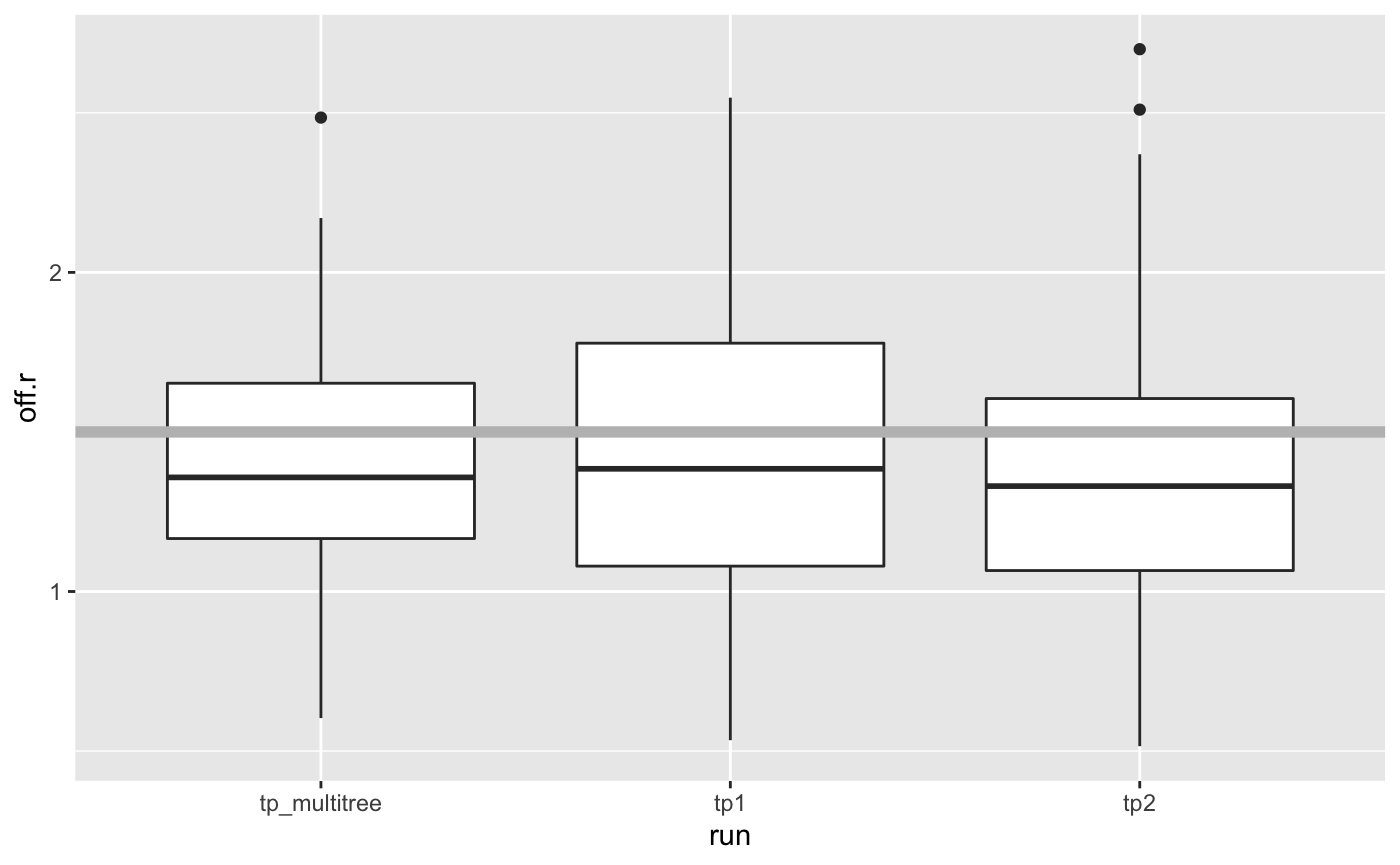
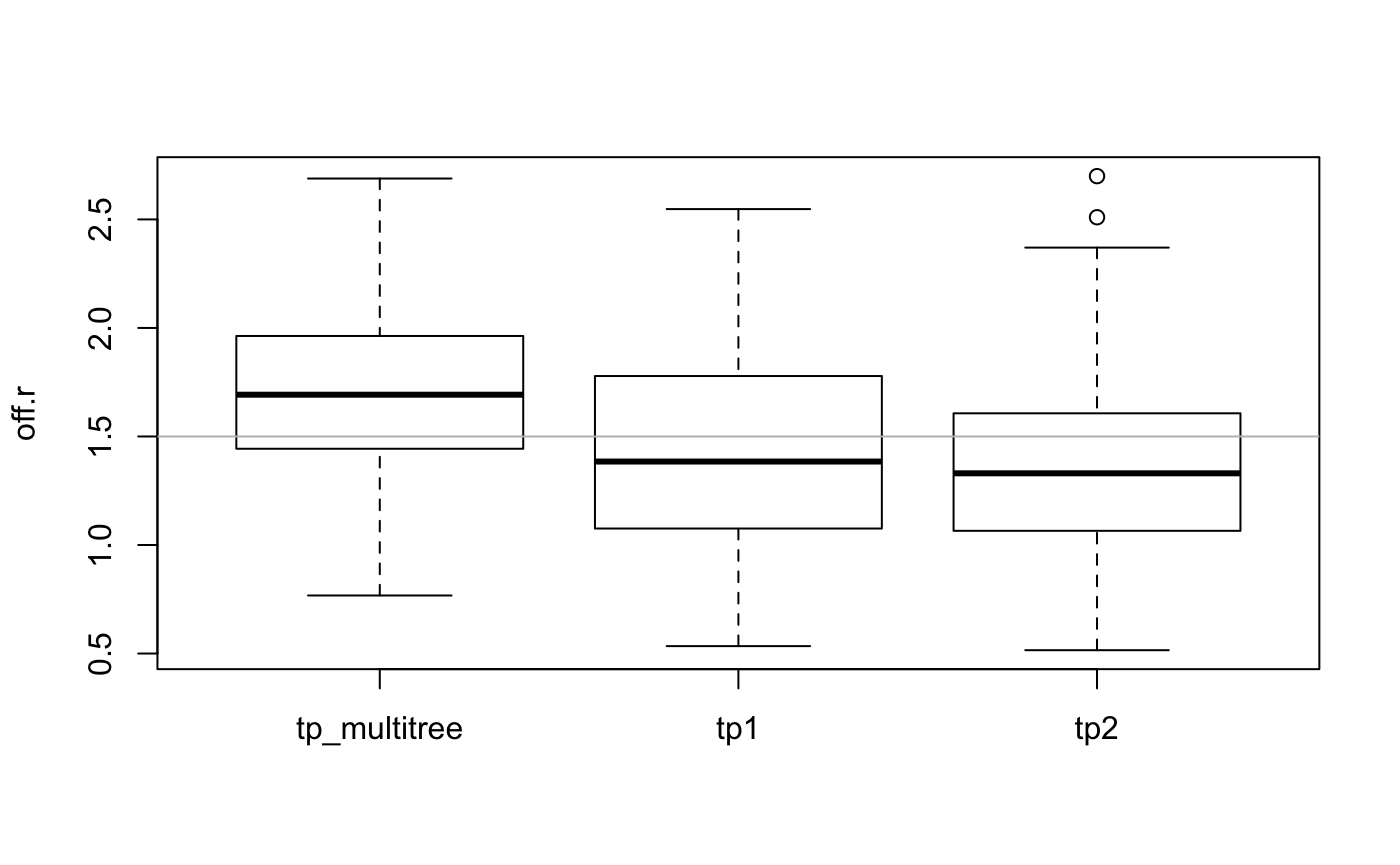
Work on multitree

diff --git a/docs/articles/multitree.html b/docs/articles/multitree.html
@@ -31,7 +31,7 @@
       </button>
       <span class="navbar-brand">
         <a class="navbar-link" href="../index.html">TransPhylo</a>
-        <span class="version label label-default" data-toggle="tooltip" data-placement="bottom" title="Released version">1.3.11</span>
+        <span class="version label label-default" data-toggle="tooltip" data-placement="bottom" title="Released version">1.3.12</span>
       </span>
     </div>
 
@@ -91,7 +91,7 @@
       <h1>Simultaneous Inference of Multiple Transmission Trees</h1>
                         <h4 class="author">Yuanwei Xu</h4>
             
-            <h4 class="date">2020-03-18</h4>
+            <h4 class="date">2020-03-19</h4>
       
       <small class="dont-index">Source: <a href="https://github.com/xavierdidelot/TransPhylo/blob/master/vignettes/multitree.Rmd"><code>vignettes/multitree.Rmd</code></a></small>
       <div class="hidden name"><code>multitree.Rmd</code></div>
@@ -141,11 +141,10 @@
 <a class="sourceLine" id="cb5-8" data-line-number="8">                         <span class="dt">mcmcIterations =</span> iters, <span class="dt">thinning =</span> thin, <span class="dt">dateT =</span> <span class="dv">2005</span>)</a>
 <a class="sourceLine" id="cb5-9" data-line-number="9">record_tpj &lt;-<span class="st"> </span><span class="kw"><a href="../reference/infer_multittree_share_param.html">infer_multittree_share_param</a></span>(<span class="kw"><a href="https://rdrr.io/r/base/list.html">list</a></span>(ptree1,ptree2), w.shape, w.scale, ws.shape, ws.scale, </a>
 <a class="sourceLine" id="cb5-10" data-line-number="10">                                    <span class="dt">mcmcIterations =</span> iters, <span class="dt">thinning =</span> thin, <span class="dt">dateT =</span> <span class="dv">2005</span>,</a>
-<a class="sourceLine" id="cb5-11" data-line-number="11">                                    <span class="dt">share =</span> <span class="kw"><a href="https://rdrr.io/r/base/c.html">c</a></span>(<span class="st">"neg"</span>, <span class="st">"off.r"</span>, <span class="st">"off.p"</span>, <span class="st">"pi"</span>),</a>
-<a class="sourceLine" id="cb5-12" data-line-number="12">                                    <span class="dt">prior_pi_a =</span> <span class="dv">1</span>, <span class="dt">prior_pi_b =</span> <span class="dv">1</span>)</a></code></pre></div>
+<a class="sourceLine" id="cb5-11" data-line-number="11">                                    <span class="dt">share =</span> <span class="kw"><a href="https://rdrr.io/r/base/c.html">c</a></span>(<span class="st">"neg"</span>, <span class="st">"off.r"</span>, <span class="st">"off.p"</span>, <span class="st">"pi"</span>))</a></code></pre></div>
 <p>Take the last 50% trees. Note that the multiple tree inference returns list of length two where each element contains the result corresponding to the input phylogenetic tree.</p>
-<div class="sourceCode" id="cb6"><pre class="sourceCode r"><code class="sourceCode r"><a class="sourceLine" id="cb6-1" data-line-number="1">begin &lt;-<span class="st"> </span>(iters <span class="op">*</span><span class="st"> </span><span class="fl">0.5</span>) <span class="op">%/%</span><span class="st"> </span>thin <span class="op">+</span><span class="st"> </span><span class="dv">1</span></a>
-<a class="sourceLine" id="cb6-2" data-line-number="2">end &lt;-<span class="st"> </span>iters <span class="op">%/%</span><span class="st"> </span>thin</a>
+<div class="sourceCode" id="cb6"><pre class="sourceCode r"><code class="sourceCode r"><a class="sourceLine" id="cb6-1" data-line-number="1">begin &lt;-<span class="st"> </span>(iters <span class="op">*</span><span class="st"> </span><span class="fl">0.5</span>) <span class="op">/</span><span class="st"> </span>thin <span class="op">+</span><span class="st"> </span><span class="dv">1</span></a>
+<a class="sourceLine" id="cb6-2" data-line-number="2">end &lt;-<span class="st"> </span>iters <span class="op">/</span><span class="st"> </span>thin</a>
 <a class="sourceLine" id="cb6-3" data-line-number="3">record_tp1 &lt;-<span class="st"> </span>record_tp1[begin<span class="op">:</span>end]</a>
 <a class="sourceLine" id="cb6-4" data-line-number="4">record_tp2 &lt;-<span class="st"> </span>record_tp2[begin<span class="op">:</span>end]</a>
 <a class="sourceLine" id="cb6-5" data-line-number="5">record_tpj[[<span class="dv">1</span>]] &lt;-<span class="st"> </span>record_tpj[[<span class="dv">1</span>]][begin<span class="op">:</span>end]</a>
@@ -170,18 +169,14 @@
 <a class="sourceLine" id="cb7-13" data-line-number="13">                   <span class="kw">get_param_estimates</span>(record_tp2, <span class="st">"neg"</span>),</a>
 <a class="sourceLine" id="cb7-14" data-line-number="14">                   <span class="kw">get_param_estimates</span>(record_tpj[[<span class="dv">1</span>]], <span class="st">"neg"</span>)))</a></code></pre></div>
 <p>In this example where we explictly set the parameters when simulating the outbreaks, we see that the posterior estimates from the multiple tree inference generally have lower variance than those resulting from single tree inference. The true parameter values are shown in gray reference line.</p>
-<div class="sourceCode" id="cb8"><pre class="sourceCode r"><code class="sourceCode r"><a class="sourceLine" id="cb8-1" data-line-number="1"><span class="kw"><a href="https://rdrr.io/r/base/library.html">library</a></span>(ggplot2)</a>
-<a class="sourceLine" id="cb8-2" data-line-number="2"><span class="kw"><a href="https://ggplot2.tidyverse.org/reference/ggplot.html">ggplot</a></span>(df, <span class="kw"><a href="https://ggplot2.tidyverse.org/reference/aes.html">aes</a></span>(run, pi)) <span class="op">+</span></a>
-<a class="sourceLine" id="cb8-3" data-line-number="3"><span class="st">  </span><span class="kw"><a href="https://ggplot2.tidyverse.org/reference/geom_boxplot.html">geom_boxplot</a></span>() <span class="op">+</span></a>
-<a class="sourceLine" id="cb8-4" data-line-number="4"><span class="st">  </span><span class="kw"><a href="https://ggplot2.tidyverse.org/reference/geom_abline.html">geom_hline</a></span>(<span class="dt">yintercept =</span> <span class="fl">0.8</span>, <span class="dt">size =</span> <span class="dv">2</span>, <span class="dt">color =</span> <span class="st">"gray"</span>)</a></code></pre></div>
+<div class="sourceCode" id="cb8"><pre class="sourceCode r"><code class="sourceCode r"><a class="sourceLine" id="cb8-1" data-line-number="1"><span class="kw"><a href="https://rdrr.io/r/graphics/boxplot.html">boxplot</a></span>(df<span class="op">$</span>pi<span class="op">~</span>df<span class="op">$</span>run,<span class="dt">ylab=</span><span class="st">'pi'</span>)</a>
+<a class="sourceLine" id="cb8-2" data-line-number="2"><span class="kw"><a href="https://rdrr.io/r/graphics/lines.html">lines</a></span>(<span class="kw"><a href="https://rdrr.io/r/base/c.html">c</a></span>(<span class="dv">0</span>,<span class="dv">4</span>),<span class="kw"><a href="https://rdrr.io/r/base/rep.html">rep</a></span>(<span class="fl">0.8</span>,<span class="dv">2</span>),<span class="dt">col=</span><span class="st">'grey'</span>)</a></code></pre></div>
 <p><img src="multitree_files/figure-html/unnamed-chunk-5-1.png" width="700"></p>
-<div class="sourceCode" id="cb9"><pre class="sourceCode r"><code class="sourceCode r"><a class="sourceLine" id="cb9-1" data-line-number="1"><span class="kw"><a href="https://ggplot2.tidyverse.org/reference/ggplot.html">ggplot</a></span>(df, <span class="kw"><a href="https://ggplot2.tidyverse.org/reference/aes.html">aes</a></span>(run, off.r)) <span class="op">+</span></a>
-<a class="sourceLine" id="cb9-2" data-line-number="2"><span class="st">  </span><span class="kw"><a href="https://ggplot2.tidyverse.org/reference/geom_boxplot.html">geom_boxplot</a></span>() <span class="op">+</span></a>
-<a class="sourceLine" id="cb9-3" data-line-number="3"><span class="st">  </span><span class="kw"><a href="https://ggplot2.tidyverse.org/reference/geom_abline.html">geom_hline</a></span>(<span class="dt">yintercept =</span> <span class="fl">1.5</span>, <span class="dt">size =</span> <span class="dv">2</span>, <span class="dt">color =</span> <span class="st">"gray"</span>)</a></code></pre></div>
+<div class="sourceCode" id="cb9"><pre class="sourceCode r"><code class="sourceCode r"><a class="sourceLine" id="cb9-1" data-line-number="1"><span class="kw"><a href="https://rdrr.io/r/graphics/boxplot.html">boxplot</a></span>(df<span class="op">$</span>off.r<span class="op">~</span>df<span class="op">$</span>run,<span class="dt">ylab=</span><span class="st">'off.r'</span>)</a>
+<a class="sourceLine" id="cb9-2" data-line-number="2"><span class="kw"><a href="https://rdrr.io/r/graphics/lines.html">lines</a></span>(<span class="kw"><a href="https://rdrr.io/r/base/c.html">c</a></span>(<span class="dv">0</span>,<span class="dv">4</span>),<span class="kw"><a href="https://rdrr.io/r/base/rep.html">rep</a></span>(<span class="fl">1.5</span>,<span class="dv">2</span>),<span class="dt">col=</span><span class="st">'grey'</span>)</a></code></pre></div>
 <p><img src="multitree_files/figure-html/unnamed-chunk-6-1.png" width="700"></p>
-<div class="sourceCode" id="cb10"><pre class="sourceCode r"><code class="sourceCode r"><a class="sourceLine" id="cb10-1" data-line-number="1"><span class="kw"><a href="https://ggplot2.tidyverse.org/reference/ggplot.html">ggplot</a></span>(df, <span class="kw"><a href="https://ggplot2.tidyverse.org/reference/aes.html">aes</a></span>(run, neg)) <span class="op">+</span></a>
-<a class="sourceLine" id="cb10-2" data-line-number="2"><span class="st">  </span><span class="kw"><a href="https://ggplot2.tidyverse.org/reference/geom_boxplot.html">geom_boxplot</a></span>() <span class="op">+</span></a>
-<a class="sourceLine" id="cb10-3" data-line-number="3"><span class="st">  </span><span class="kw"><a href="https://ggplot2.tidyverse.org/reference/geom_abline.html">geom_hline</a></span>(<span class="dt">yintercept =</span> <span class="dv">100</span><span class="op">/</span><span class="dv">365</span>, <span class="dt">size =</span> <span class="dv">2</span>, <span class="dt">color =</span> <span class="st">"gray"</span>)</a></code></pre></div>
+<div class="sourceCode" id="cb10"><pre class="sourceCode r"><code class="sourceCode r"><a class="sourceLine" id="cb10-1" data-line-number="1"><span class="kw"><a href="https://rdrr.io/r/graphics/boxplot.html">boxplot</a></span>(df<span class="op">$</span>neg<span class="op">~</span>df<span class="op">$</span>run,<span class="dt">ylab=</span><span class="st">'Ne*g'</span>)</a>
+<a class="sourceLine" id="cb10-2" data-line-number="2"><span class="kw"><a href="https://rdrr.io/r/graphics/lines.html">lines</a></span>(<span class="kw"><a href="https://rdrr.io/r/base/c.html">c</a></span>(<span class="dv">0</span>,<span class="dv">4</span>),<span class="kw"><a href="https://rdrr.io/r/base/rep.html">rep</a></span>(<span class="dv">100</span><span class="op">/</span><span class="dv">365</span>,<span class="dv">2</span>),<span class="dt">col=</span><span class="st">'grey'</span>)</a></code></pre></div>
 <p><img src="multitree_files/figure-html/unnamed-chunk-7-1.png" width="700"></p>
 </div>
   </div>

diff --git a/docs/reference/infer_multittree_share_param.html b/docs/reference/infer_multittree_share_param.html
@@ -75,7 +75,7 @@ the argument &quot;share&quot;." />
       </button>
       <span class="navbar-brand">
         <a class="navbar-link" href="../index.html">TransPhylo</a>
-        <span class="version label label-default" data-toggle="tooltip" data-placement="bottom" title="Released version">1.3.11</span>
+        <span class="version label label-default" data-toggle="tooltip" data-placement="bottom" title="Released version">1.3.12</span>
       </span>
     </div>
 
@@ -151,8 +151,8 @@ the argument "share".</p>
   <span class='kw'>startOff.p</span> <span class='kw'>=</span> <span class='fl'>0.5</span>, <span class='kw'>startPi</span> <span class='kw'>=</span> <span class='fl'>0.5</span>, <span class='kw'>prior_pi_a</span> <span class='kw'>=</span> <span class='fl'>5</span>, <span class='kw'>prior_pi_b</span> <span class='kw'>=</span> <span class='fl'>1</span>,
   <span class='kw'>updateNeg</span> <span class='kw'>=</span> <span class='fl'>TRUE</span>, <span class='kw'>updateOff.r</span> <span class='kw'>=</span> <span class='fl'>TRUE</span>, <span class='kw'>updateOff.p</span> <span class='kw'>=</span> <span class='fl'>FALSE</span>,
   <span class='kw'>updatePi</span> <span class='kw'>=</span> <span class='fl'>TRUE</span>, <span class='kw'>share</span> <span class='kw'>=</span> <span class='kw'>NULL</span>, <span class='kw'>startCTree_lst</span> <span class='kw'>=</span> <span class='fu'><a href='https://rdrr.io/r/base/rep.html'>rep</a></span>(<span class='fl'>NA</span>,
-  <span class='fu'><a href='https://rdrr.io/r/base/length.html'>length</a></span>(<span class='no'>ptree_lst</span>)), <span class='kw'>updateTTree</span> <span class='kw'>=</span> <span class='fl'>TRUE</span>, <span class='kw'>optiStart</span> <span class='kw'>=</span> <span class='fl'>TRUE</span>,
-  <span class='kw'>dateT</span> <span class='kw'>=</span> <span class='fl'>Inf</span>)</pre>
+  <span class='fu'><a href='https://rdrr.io/r/base/length.html'>length</a></span>(<span class='no'>ptree_lst</span>)), <span class='kw'>updateTTree</span> <span class='kw'>=</span> <span class='fl'>TRUE</span>, <span class='kw'>optiStart</span> <span class='kw'>=</span> <span class='fl'>2</span>, <span class='kw'>dateT</span> <span class='kw'>=</span> <span class='fl'>Inf</span>,
+  <span class='kw'>verbose</span> <span class='kw'>=</span> <span class='no'>F</span>)</pre>
 
     <h2 class="hasAnchor" id="arguments"><a class="anchor" href="#arguments"></a>Arguments</h2>
     <table class="ref-arguments">
@@ -245,6 +245,10 @@ share the offspring distribution. Allowed parameter names are "neg", "off.r", "o
     <tr>
       <th>dateT</th>
       <td><p>Date when process stops (this can be Inf for fully simulated outbreaks)</p></td>
+    </tr>
+    <tr>
+      <th>verbose</th>
+      <td><p>Whether or not to use verbose mode (default is false)</p></td>
     </tr>
     </table>
 

diff --git a/docs/articles/infer.html b/docs/articles/infer.html
@@ -31,7 +31,7 @@
       </button>
       <span class="navbar-brand">
         <a class="navbar-link" href="../index.html">TransPhylo</a>
-        <span class="version label label-default" data-toggle="tooltip" data-placement="bottom" title="Released version">1.3.11</span>
+        <span class="version label label-default" data-toggle="tooltip" data-placement="bottom" title="Released version">1.3.12</span>
       </span>
     </div>
 
@@ -91,7 +91,7 @@
       <h1>Inference of transmission tree from a dated phylogeny</h1>
                         <h4 class="author">Xavier Didelot</h4>
             
-            <h4 class="date">2020-03-18</h4>
+            <h4 class="date">2020-03-19</h4>
       
       <small class="dont-index">Source: <a href="https://github.com/xavierdidelot/TransPhylo/blob/master/vignettes/infer.Rmd"><code>vignettes/infer.Rmd</code></a></small>
       <div class="hidden name"><code>infer.Rmd</code></div>

diff --git a/docs/articles/TransPhylo.html b/docs/articles/TransPhylo.html
@@ -31,7 +31,7 @@
       </button>
       <span class="navbar-brand">
         <a class="navbar-link" href="../index.html">TransPhylo</a>
-        <span class="version label label-default" data-toggle="tooltip" data-placement="bottom" title="Released version">1.3.11</span>
+        <span class="version label label-default" data-toggle="tooltip" data-placement="bottom" title="Released version">1.3.12</span>
       </span>
     </div>
 
@@ -91,7 +91,7 @@
       <h1>Introducing the R package TransPhylo</h1>
                         <h4 class="author">Xavier Didelot</h4>
             
-            <h4 class="date">2020-03-18</h4>
+            <h4 class="date">2020-03-19</h4>
       
       <small class="dont-index">Source: <a href="https://github.com/xavierdidelot/TransPhylo/blob/master/vignettes/TransPhylo.Rmd"><code>vignettes/TransPhylo.Rmd</code></a></small>
       <div class="hidden name"><code>TransPhylo.Rmd</code></div>

diff --git a/docs/articles/simulate.html b/docs/articles/simulate.html
@@ -31,7 +31,7 @@
       </button>
       <span class="navbar-brand">
         <a class="navbar-link" href="../index.html">TransPhylo</a>
-        <span class="version label label-default" data-toggle="tooltip" data-placement="bottom" title="Released version">1.3.11</span>
+        <span class="version label label-default" data-toggle="tooltip" data-placement="bottom" title="Released version">1.3.12</span>
       </span>
     </div>
 
@@ -91,7 +91,7 @@
       <h1>Simulation of outbreak data</h1>
                         <h4 class="author">Xavier Didelot</h4>
             
-            <h4 class="date">2020-03-18</h4>
+            <h4 class="date">2020-03-19</h4>
       
       <small class="dont-index">Source: <a href="https://github.com/xavierdidelot/TransPhylo/blob/master/vignettes/Simulate.Rmd"><code>vignettes/Simulate.Rmd</code></a></small>
       <div class="hidden name"><code>Simulate.Rmd</code></div>

diff --git a/docs/reference/TransPhylo.html b/docs/reference/TransPhylo.html
@@ -74,7 +74,7 @@ simulateOutbreak
       </button>
       <span class="navbar-brand">
         <a class="navbar-link" href="../index.html">TransPhylo</a>
-        <span class="version label label-default" data-toggle="tooltip" data-placement="bottom" title="Released version">1.3.11</span>
+        <span class="version label label-default" data-toggle="tooltip" data-placement="bottom" title="Released version">1.3.12</span>
       </span>
     </div>
 

diff --git a/docs/articles/index.html b/docs/articles/index.html
@@ -67,7 +67,7 @@
       </button>
       <span class="navbar-brand">
         <a class="navbar-link" href="../index.html">TransPhylo</a>
-        <span class="version label label-default" data-toggle="tooltip" data-placement="bottom" title="Released version">1.3.11</span>
+        <span class="version label label-default" data-toggle="tooltip" data-placement="bottom" title="Released version">1.3.12</span>
       </span>
     </div>
 

diff --git a/docs/reference/as.mcmc.resTransPhylo.html b/docs/reference/as.mcmc.resTransPhylo.html
@@ -69,7 +69,7 @@
       </button>
       <span class="navbar-brand">
         <a class="navbar-link" href="../index.html">TransPhylo</a>
-        <span class="version label label-default" data-toggle="tooltip" data-placement="bottom" title="Released version">1.3.11</span>
+        <span class="version label label-default" data-toggle="tooltip" data-placement="bottom" title="Released version">1.3.12</span>
       </span>
     </div>
 

diff --git a/docs/reference/computeMatTDist.html b/docs/reference/computeMatTDist.html
@@ -69,7 +69,7 @@
       </button>
       <span class="navbar-brand">
         <a class="navbar-link" href="../index.html">TransPhylo</a>
-        <span class="version label label-default" data-toggle="tooltip" data-placement="bottom" title="Released version">1.3.11</span>
+        <span class="version label label-default" data-toggle="tooltip" data-placement="bottom" title="Released version">1.3.12</span>
       </span>
     </div>
 

diff --git a/docs/reference/computeMatWIW.html b/docs/reference/computeMatWIW.html
@@ -69,7 +69,7 @@
       </button>
       <span class="navbar-brand">
         <a class="navbar-link" href="../index.html">TransPhylo</a>
-        <span class="version label label-default" data-toggle="tooltip" data-placement="bottom" title="Released version">1.3.11</span>
+        <span class="version label label-default" data-toggle="tooltip" data-placement="bottom" title="Released version">1.3.12</span>
       </span>
     </div>
 

diff --git a/docs/reference/consTTree.html b/docs/reference/consTTree.html
@@ -69,7 +69,7 @@
       </button>
       <span class="navbar-brand">
         <a class="navbar-link" href="../index.html">TransPhylo</a>
-        <span class="version label label-default" data-toggle="tooltip" data-placement="bottom" title="Released version">1.3.11</span>
+        <span class="version label label-default" data-toggle="tooltip" data-placement="bottom" title="Released version">1.3.12</span>
       </span>
     </div>
 

diff --git a/docs/reference/convertToCoda.html b/docs/reference/convertToCoda.html
@@ -69,7 +69,7 @@
       </button>
       <span class="navbar-brand">
         <a class="navbar-link" href="../index.html">TransPhylo</a>
-        <span class="version label label-default" data-toggle="tooltip" data-placement="bottom" title="Released version">1.3.11</span>
+        <span class="version label label-default" data-toggle="tooltip" data-placement="bottom" title="Released version">1.3.12</span>
       </span>
     </div>
 
